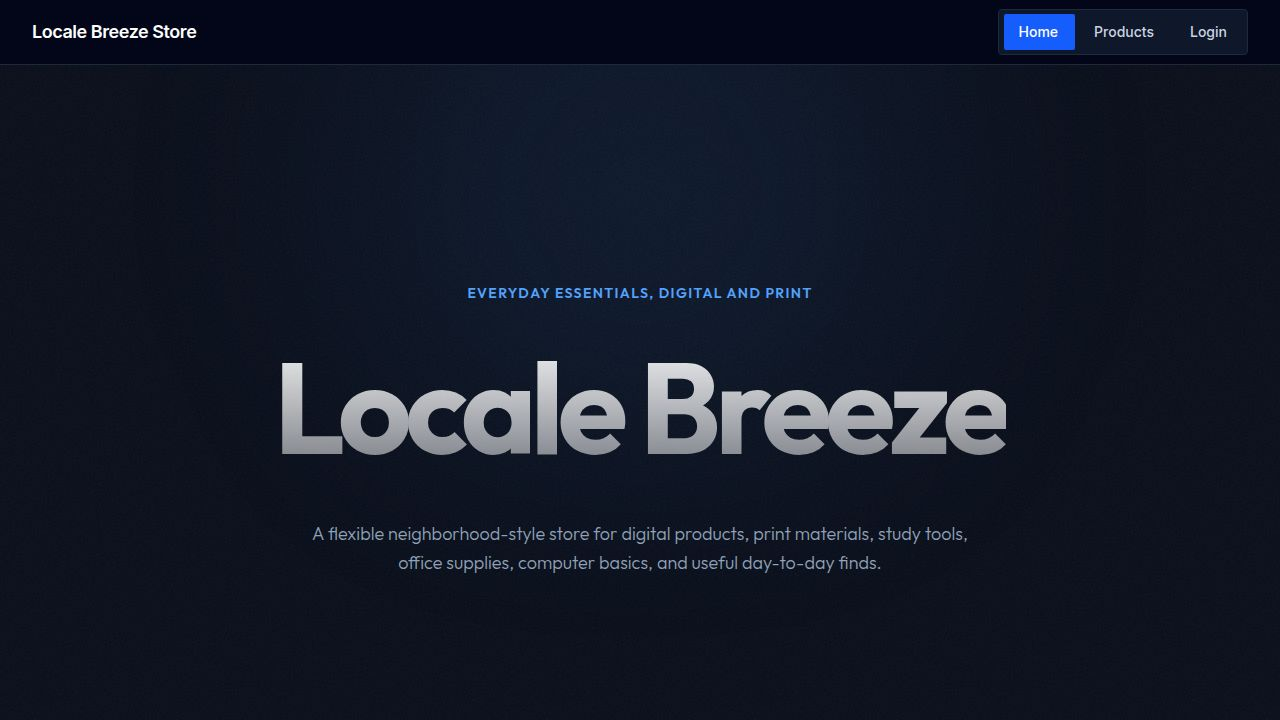
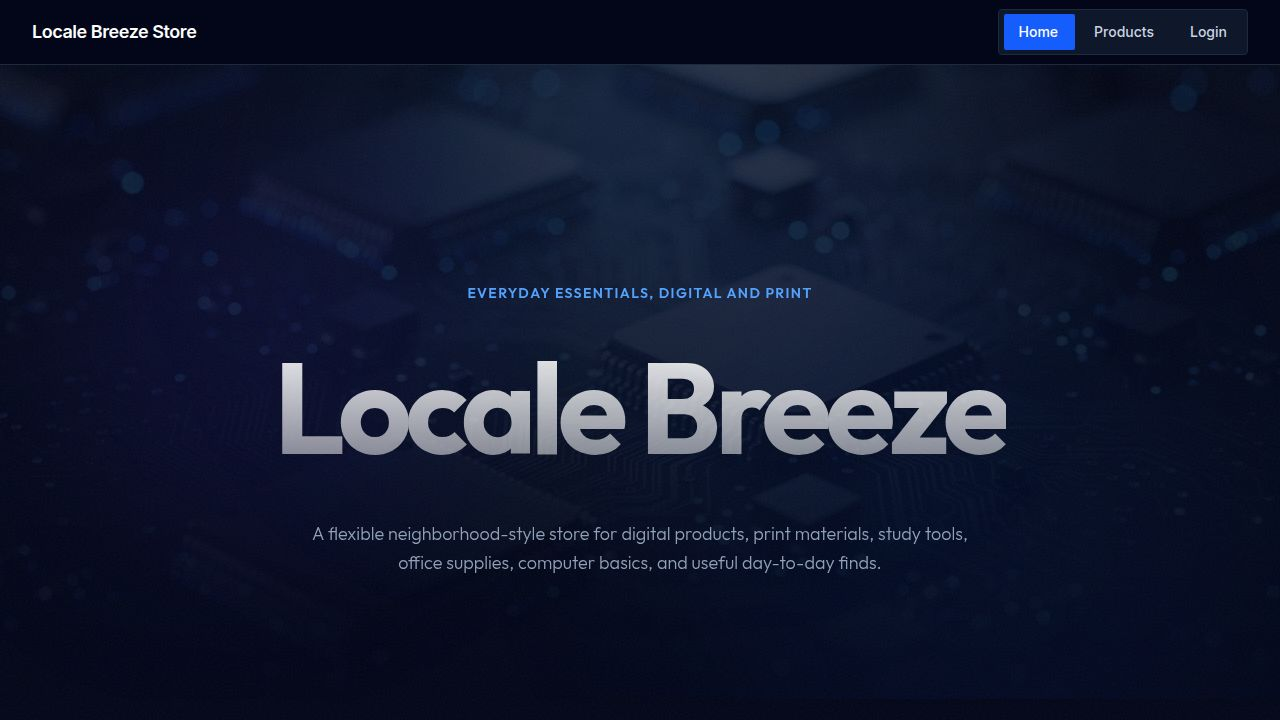
Extend Fluid Motion dark theme to products, product-detail, and admin pages
- Restyled ProductCard, products.tsx, and product-detail.tsx with dark navy
  background, Outfit font, Framer Motion scroll reveals, rounded-3xl white/5
  glass cards, and blue-400 accents to match the graduated home page design.
- Restyled admin.tsx and its subcomponents (AdminAccessGate,
  AdminCatalogTable, AdminProductsTable, AdminTablePagination) with the same
  dark glass aesthetic; Tabs restyled via className overrides only (shared
  ui/tabs.tsx untouched).
- Extracted shared fluid-theme.css (noise overlay, gradient blur) used by all
  four pages.
- Verified via typecheck (only pre-existing unrelated pagination.tsx errors
  remain) and screenshots of products, product-detail, and admin (login-gate
  view, since no admin test credentials were available to reach the
  authenticated dashboard).

diff --git a/artifacts/locale-breeze-store/src/pages/home.tsx b/artifacts/locale-breeze-store/src/pages/home.tsx
@@ -114,17 +114,17 @@ export default function Home() {
 
       <main
         ref={containerRef}
-        className="fluid-home dark bg-background text-foreground"
+        className="fluid-home dark isolate bg-background text-foreground"
       >
+        <div
+          className="fixed inset-0 -z-30 bg-cover bg-center bg-no-repeat opacity-30"
+          style={{ backgroundImage: `url(${heroTechBg})` }}
+        />
+        <div className="fixed inset-0 -z-30 bg-gradient-to-b from-slate-950/40 via-slate-950/70 to-slate-950" />
         <div className="fluid-home-noise" />
 
         {/* Hero */}
         <section className="isolate relative flex min-h-[88svh] items-center justify-center overflow-hidden px-5 pt-24 sm:px-8">
-          <div
-            className="absolute inset-0 -z-20 bg-cover bg-center opacity-40"
-            style={{ backgroundImage: `url(${heroTechBg})` }}
-          />
-          <div className="absolute inset-0 -z-20 bg-gradient-to-b from-slate-950/30 via-slate-950/60 to-slate-950" />
           <div className="fluid-home-gradient-blur" />
           <motion.div
             style={{ y: heroY, opacity: heroOpacity }}
